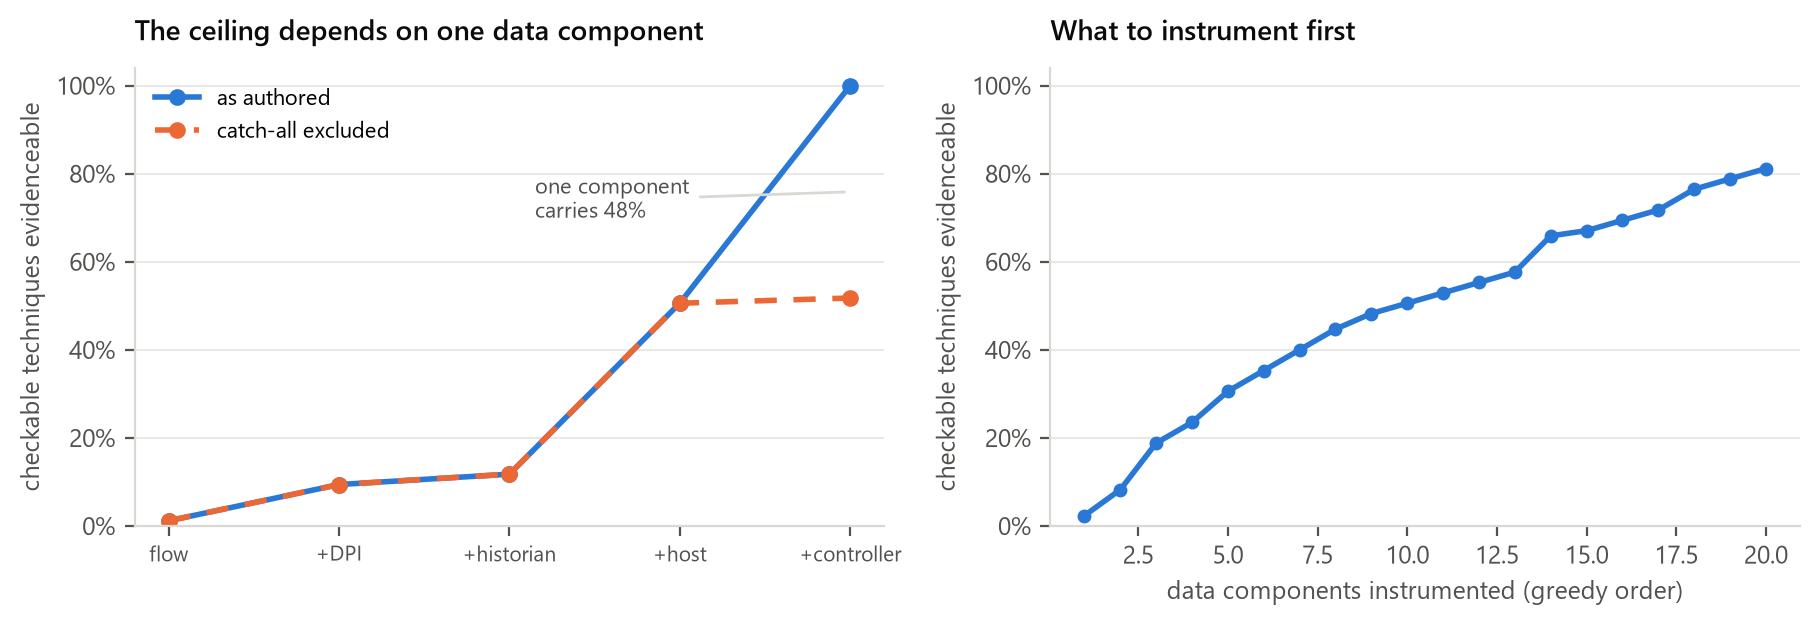
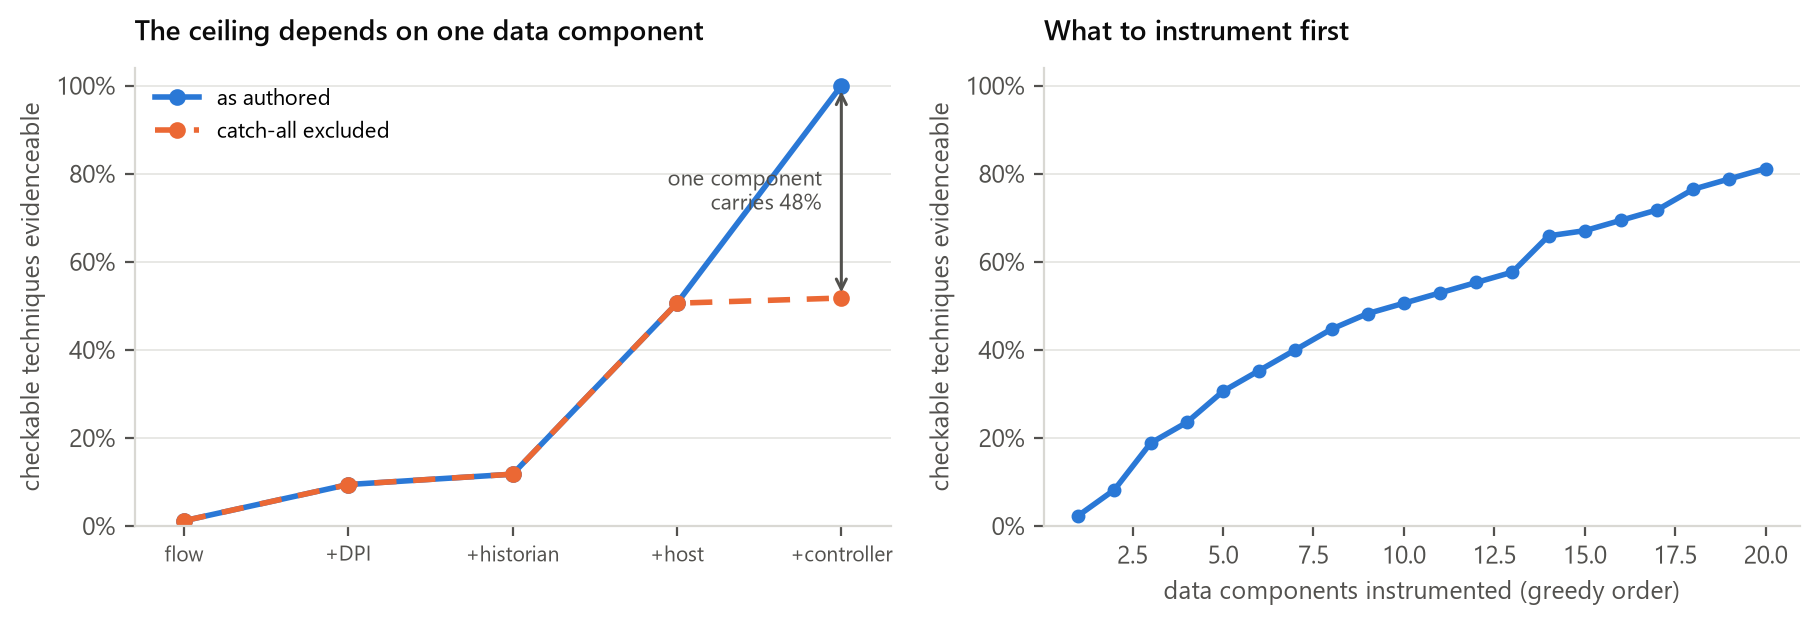
Fix annotation leader crossing the line in fig_robustness
The gap sits at the right edge, so any leader from the left crossed the
rising 'as authored' line. Replaced with a vertical double-arrow at the
last tier and a right-aligned caption.

diff --git a/experiments/profile_robustness/robustness.py b/experiments/profile_robustness/robustness.py
@@ -244,10 +244,15 @@ def figure(techs, ics) -> None:
             label="as authored")
     ax.plot(list(xs), without, color=ORANGE, lw=2, marker="o", ms=5,
             linestyle=(0, (4, 3)), label="catch-all excluded")
-    ax.annotate(f"one component\ncarries {with_ca[-1] - without[-1]:.0%}",
-                xy=(4, (with_ca[-1] + without[-1]) / 2), xytext=(2.15, 0.70),
-                fontsize=8, color=INK2,
-                arrowprops=dict(arrowstyle="-", color=GRID, lw=1))
+    # Vertical span at the last tier rather than a leader from the left: the gap
+    # sits at the right edge and any leader would cross the rising blue line.
+    last = len(TIERS) - 1
+    ax.annotate("", xy=(last, with_ca[-1]), xytext=(last, without[-1]),
+                arrowprops=dict(arrowstyle="<->", color=INK2, lw=1.1))
+    ax.text(last - 0.12, (with_ca[-1] + without[-1]) / 2,
+            f"one component\ncarries {with_ca[-1] - without[-1]:.0%}",
+            ha="right", va="center", fontsize=8, color=INK2)
+    ax.set_xlim(-0.3, last + 0.3)
     ax.set_xticks(list(xs), [SHORT[k].replace("\n", " ") for k in TIERS],
                   fontsize=7.5)
     ax.set_ylim(0, 1.04)
